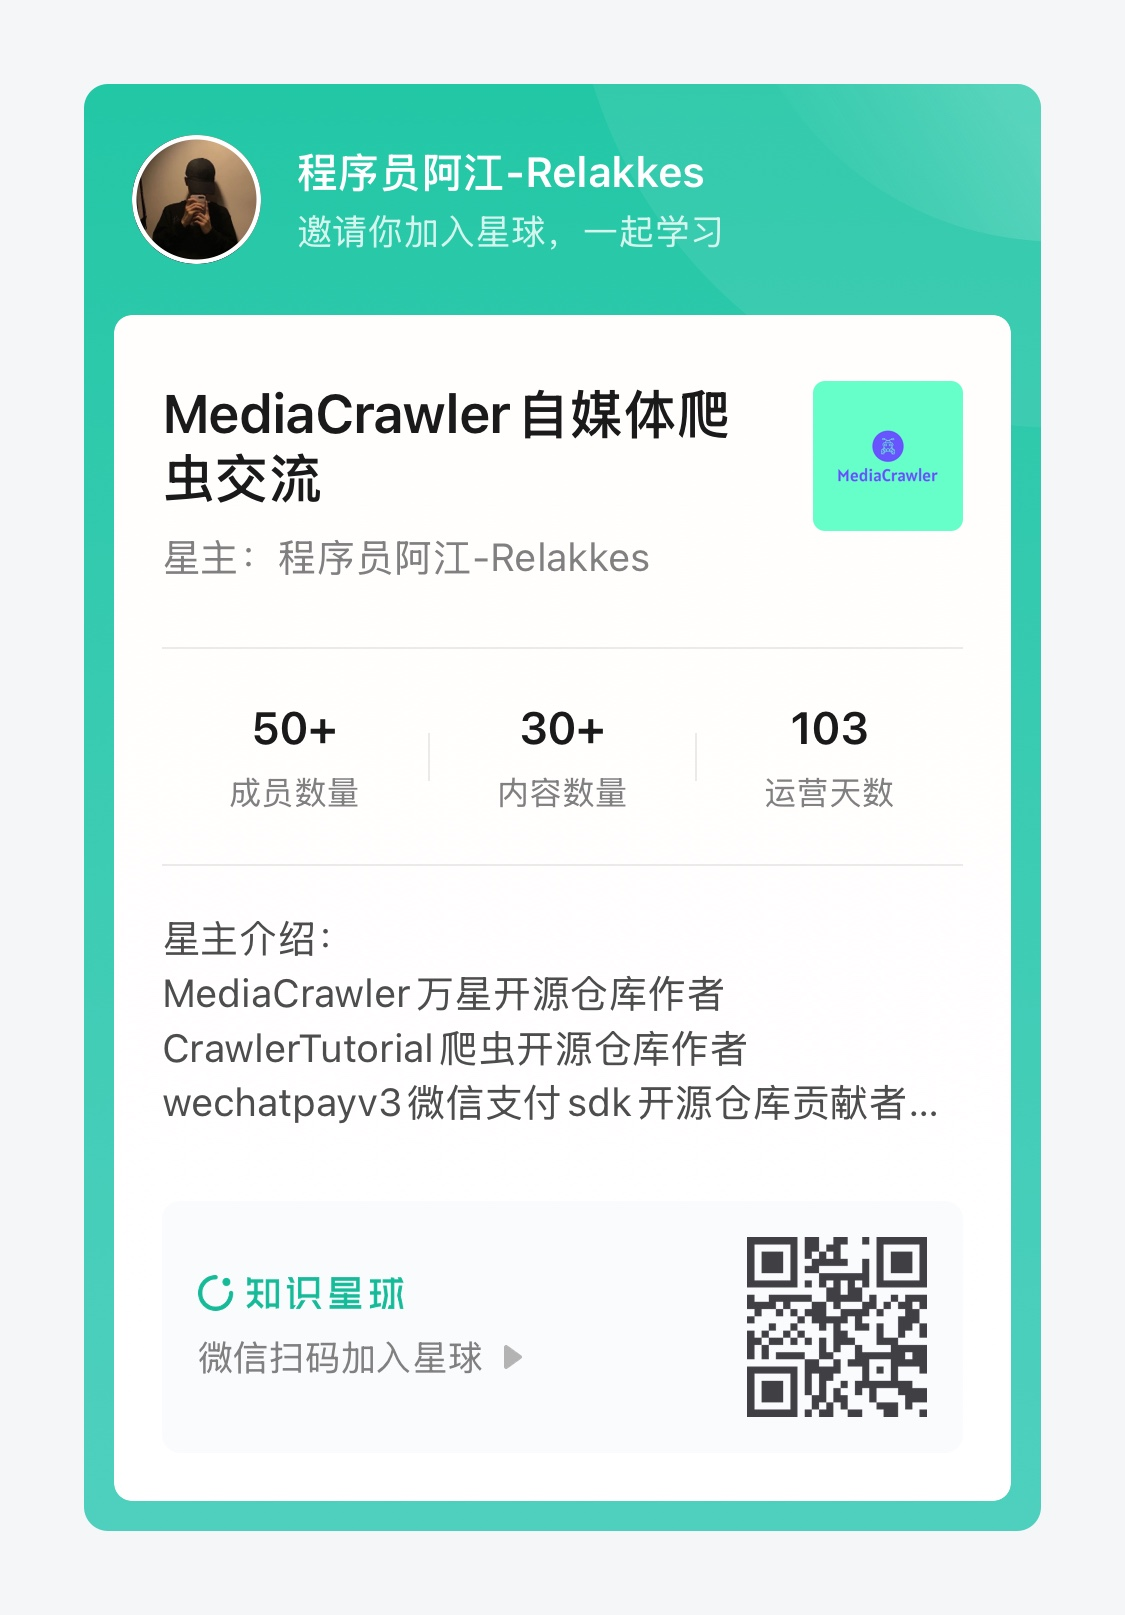
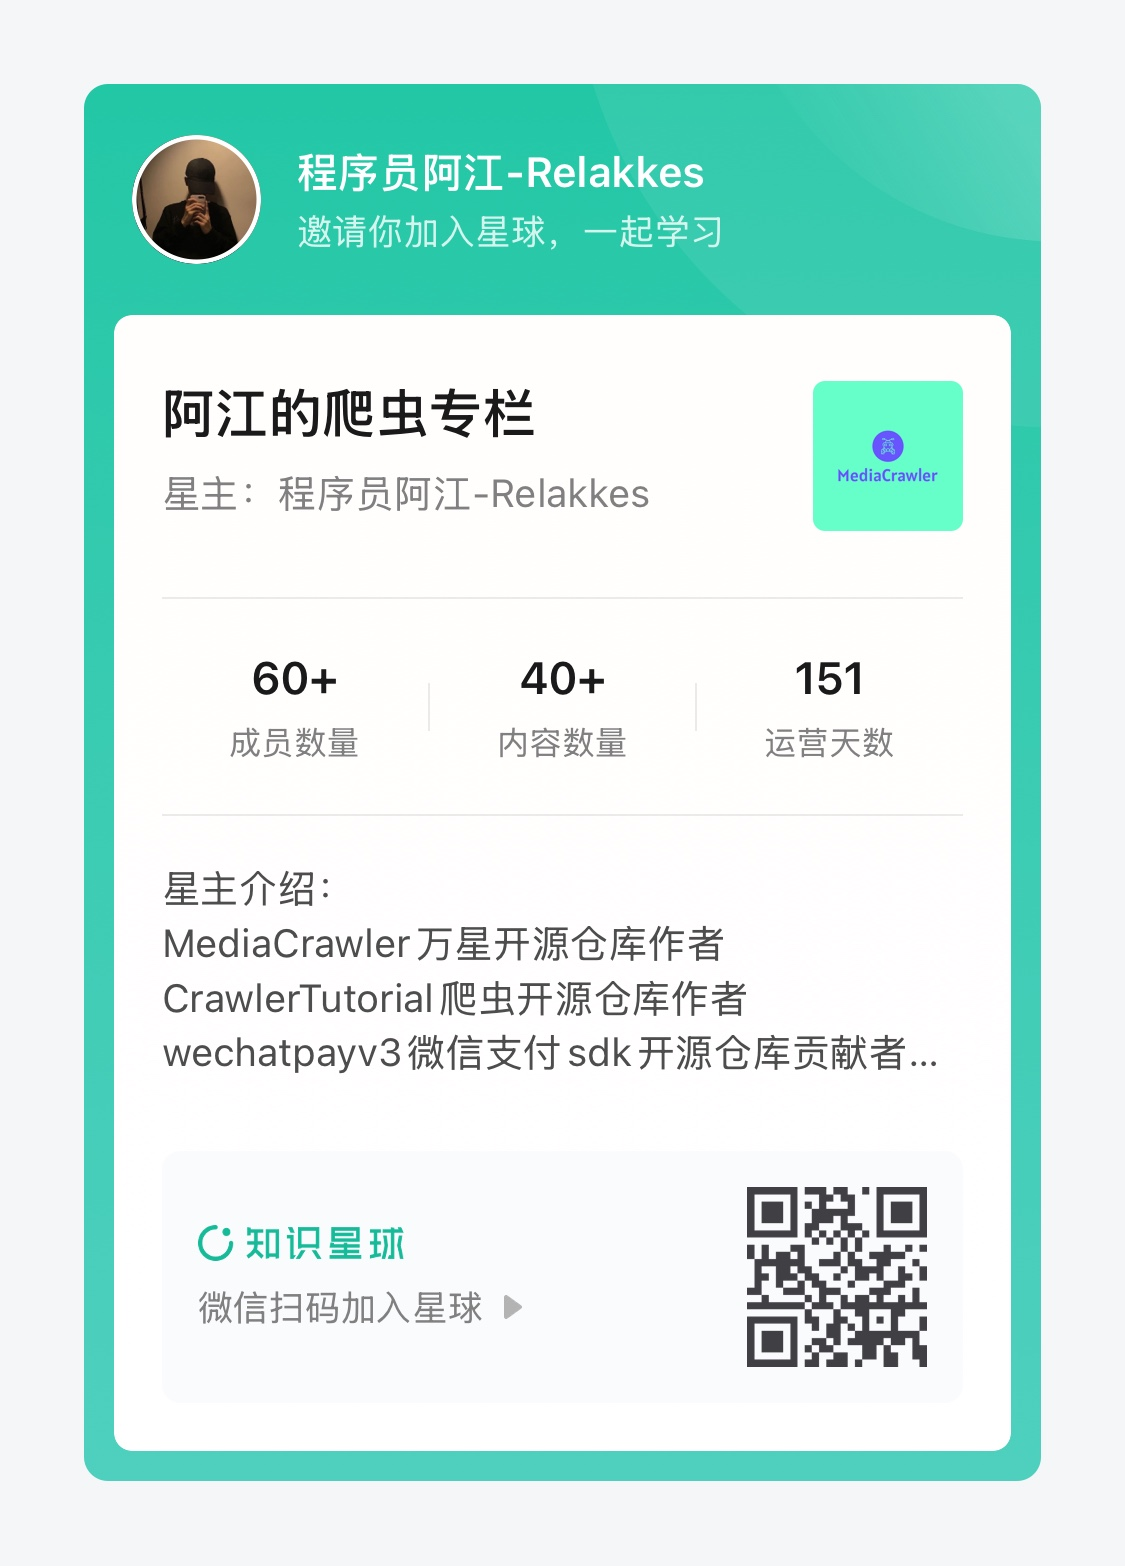
chore: config update & xinqqiu img update

diff --git a/config/base_config.py b/config/base_config.py
@@ -11,7 +11,7 @@
 
 # 基础配置
 PLATFORM = "xhs"
-KEYWORDS = "城市" # 关键词搜索配置，以英文逗号分隔
+KEYWORDS = "编程副业,编程兼职" # 关键词搜索配置，以英文逗号分隔
 LOGIN_TYPE = "qrcode"  # qrcode or phone or cookie
 COOKIES = ""
 # 具体值参见media_platform.xxx.field下的枚举值，暂时只支持小红书
@@ -48,7 +48,7 @@ USER_DATA_DIR = "%s_user_data_dir"  # %s will be replaced by platform name
 START_PAGE = 1
 
 # 爬取视频/帖子的数量控制
-CRAWLER_MAX_NOTES_COUNT = 10
+CRAWLER_MAX_NOTES_COUNT = 200
 
 # 并发爬虫数量控制
 MAX_CONCURRENCY_NUM = 1

diff --git a/README.md b/README.md
@@ -118,7 +118,7 @@ MediaCrawler仓库白金赞助商:
   <br>
   <br>
   
-- 知识星球：MediaCrawler相关问题最佳实践、爬虫逆向分享、爬虫项目实战、多年编程经验分享、爬虫编程技术问题提问。
+- 阿江的爬虫专栏知识星球：MediaCrawler相关问题最佳实践、爬虫逆向分享、爬虫项目实战、多年编程经验分享、爬虫编程技术问题提问。
   <p>
   <img alt="xingqiu" src="docs/static/images/星球qrcode.jpg" style="width: auto;height: 400px" >
   </p>
